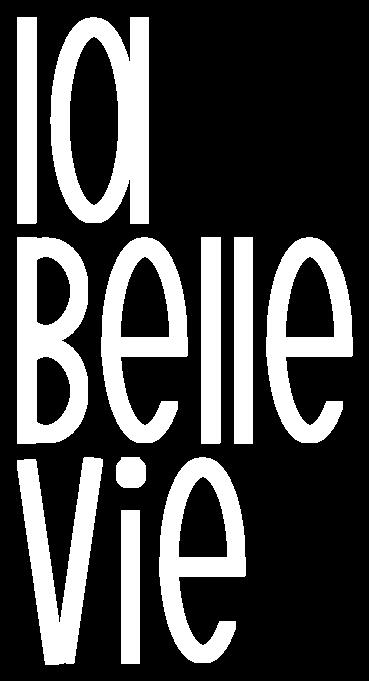
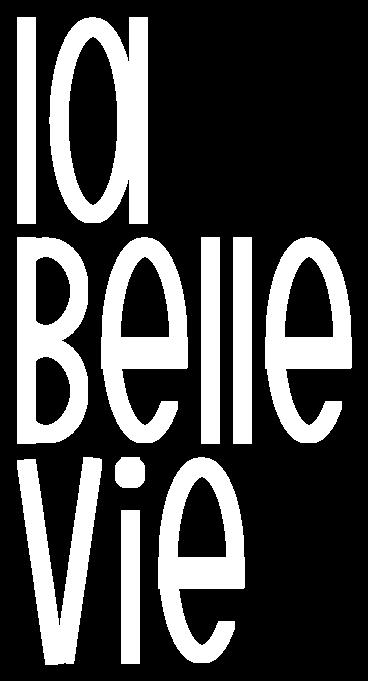
Mat: code review

diff --git a/TP1/TP1/src/tp1/LetterFactory.java b/TP1/TP1/src/tp1/LetterFactory.java
@@ -11,9 +11,9 @@ public final class LetterFactory {
     final static Double halfStripeThickness = stripeThickness / 2.0; // avant 2
 
     public static BaseShape create_e() {
-        BaseShape C = create_C();
-        Rectangle rect = new Rectangle(maxWidth, stripeThickness).translate(new Point2d(-halfMaxWidth, 0.0));
-        return C.add(rect);
+        BaseShape letterE = create_C();
+        Rectangle horizontalRect = new Rectangle(maxWidth, stripeThickness).translate(new Point2d(-halfMaxWidth, 0.0));
+        return letterE.add(horizontalRect);
     }
 
     public static BaseShape create_a() {
@@ -21,15 +21,15 @@ public final class LetterFactory {
         Ellipse smallEllipse = new Ellipse(maxWidth - stripeThickness, maxHeight- stripeThickness);
         bigEllipse.remove(smallEllipse);
 
-        Rectangle rect = new Rectangle(halfStripeThickness, maxHeight).translate(new Point2d(halfMaxWidth , -halfMaxHeight));
-        return bigEllipse.add(rect);
+        Rectangle verticalRect = new Rectangle(halfStripeThickness, maxHeight).translate(new Point2d(halfMaxWidth , -halfMaxHeight));
+        BaseShape letterA = bigEllipse.add(verticalRect);
+        return letterA;
     }
 
     public static BaseShape create_C() {
         Ellipse bigEllipse = new Ellipse(maxWidth, maxHeight);
         Ellipse smallEllipse = new Ellipse(maxWidth - stripeThickness, maxHeight- stripeThickness);
         bigEllipse.remove(smallEllipse);
-         // a revoir pour a quel point des un c et si cest trop similaire
         Rectangle rectToRemove = new Rectangle(halfMaxWidth, halfMaxHeight / 2.0);
         rectToRemove.translate(new Point2d(halfMaxWidth / 2.0D, halfStripeThickness));
         bigEllipse.remove(rectToRemove);
@@ -41,20 +41,20 @@ public final class LetterFactory {
 
     public static BaseShape create_i() {
         Rectangle rect = new Rectangle(halfStripeThickness, maxHeight).translate(new Point2d(0.0, - halfStripeThickness));
-        Circle circle = new Circle(stripeThickness);
-        circle.translate(new Point2d(halfStripeThickness / 2,0.0));
-        Rectangle rectToRemove = new Rectangle(stripeThickness,  maxHeight / 5);
+        Circle dot = new Circle(stripeThickness);
+        dot.translate(new Point2d(halfStripeThickness / 2.0,0.0));
+        Rectangle rectToRemove = new Rectangle(stripeThickness,  maxHeight / 5.0);
 
         rect.remove(rectToRemove);
-        rect.add(circle);
+        rect.add(dot);
         return rect;
     }
 
     public static BaseShape create_A() {
         BaseShape letterA = create_V();
         letterA.rotate(-Math.PI);
-        Rectangle part2 = new Rectangle(halfMaxWidth, halfStripeThickness);//translate(new Point2d(0.0, halfMaxHeight));
-        letterA.add(part2.translate(new Point2d(-12.0, halfMaxHeight + 15.0)));
+        Rectangle horizontalBar = new Rectangle(halfMaxWidth, halfStripeThickness);
+        letterA.add(horizontalBar.translate(new Point2d(-12.0, halfMaxHeight + 15.0)));
         return letterA;
     }
 
@@ -66,19 +66,19 @@ public final class LetterFactory {
     }
 
     public static BaseShape create_n() {
-        BaseShape letter_n = new BaseShape();
-        letter_n.add(new Ellipse(maxWidth, maxHeight));
-        letter_n.remove(new Ellipse(maxWidth - stripeThickness - 3, maxHeight - stripeThickness));
-        letter_n.remove(new Rectangle(maxWidth, halfMaxHeight).translate(new Point2d(-40.0, -100 + halfMaxHeight)));
-        letter_n.add(new Rectangle(halfStripeThickness, halfMaxHeight).translate(new Point2d(-54 + maxWidth, 0.0)));
-        letter_n.add(new Rectangle(halfStripeThickness, maxHeight).translate(new Point2d(-40.0, -100.0)));
-        return letter_n;
+        BaseShape letterN = new BaseShape();
+        letterN.add(new Ellipse(maxWidth, maxHeight));
+        letterN.remove(new Ellipse(maxWidth - stripeThickness - 3.0, maxHeight - stripeThickness));
+        letterN.remove(new Rectangle(maxWidth, halfMaxHeight).translate(new Point2d(-40.0, -100.0 + halfMaxHeight)));
+        letterN.add(new Rectangle(halfStripeThickness, halfMaxHeight).translate(new Point2d(-54.0 + maxWidth, 0.0)));
+        letterN.add(new Rectangle(halfStripeThickness, maxHeight).translate(new Point2d(-40.0, -100.0)));
+        return letterN;
     }
 
     public static BaseShape create_r() {
-        BaseShape letter_r = create_n();
-        letter_r.remove(new Rectangle(halfStripeThickness, halfMaxHeight + 24.0).translate(new Point2d(-54 + maxWidth, -24.0)));
-        return letter_r;
+        BaseShape letterR = create_n();
+        letterR.remove(new Rectangle(halfStripeThickness, halfMaxHeight + 24.0).translate(new Point2d(-54.0 + maxWidth, -24.0)));
+        return letterR;
     }
 
     public static BaseShape create_B() {

diff --git a/TP1/TP1/src/tp1/BaseShape.java b/TP1/TP1/src/tp1/BaseShape.java
@@ -17,14 +17,17 @@ public class BaseShape implements Cloneable {
         this.coords.add(coord);
         return this;
     }
+
     public BaseShape add(BaseShape shape) {
         this.coords.addAll(shape.getCoords());
         return this;
     }
+
     public BaseShape addAll(Collection<Point2d> coords) {
         this.coords.addAll(coords);
         return this;
     }
+
     public BaseShape remove(Point2d coord) {
         this.coords.remove(coord);
         return this;
@@ -33,6 +36,7 @@ public class BaseShape implements Cloneable {
         this.coords.removeAll(shape.getCoords());
         return this;
     }
+
     public BaseShape removeAll(Collection<Point2d> coords) {
         this.coords.removeAll(coords);
         return this;
@@ -44,13 +48,13 @@ public class BaseShape implements Cloneable {
 
     public Collection<Point2d> getCoordsDeepCopy() {
         Collection<Point2d> newColl = new ArrayList<>();
+
         for (Point2d coord : this.coords) {
             Point2d newPoint = new Point2d(coord.X(), coord.Y());
             newColl.add(newPoint);
         }
         return newColl;
     }
-
 
     public BaseShape translate(Point2d point) {
         for (Point2d coord : this.coords){
@@ -68,6 +72,7 @@ public class BaseShape implements Cloneable {
 
     public Double getMaxX() {
         if (this.coords.size() == 0) return 0.0;
+
         Point2d max = this.coords.iterator().next();
         for(Point2d coord : this.coords) {
             if (coord.X() > max.X()) max = coord;
@@ -77,6 +82,7 @@ public class BaseShape implements Cloneable {
 
     public Double getMaxY() {
         if (this.coords.size() == 0) return 0.0;
+
         Point2d max = this.coords.iterator().next();
         for(Point2d coord : this.coords) {
             if (coord.Y() >= max.Y()) max = coord;
@@ -90,6 +96,7 @@ public class BaseShape implements Cloneable {
 
     public Double getMinX() {
         if (this.coords.size() == 0) return 0.0;
+
         Point2d min = this.coords.iterator().next();
         for(Point2d coord : this.coords) {
             if (coord.X() <= min.X()) min = coord;
@@ -99,6 +106,7 @@ public class BaseShape implements Cloneable {
 
     public Double getMinY() {
         if (this.coords.size() == 0) return 0.0;
+
         Point2d min = this.coords.iterator().next();
         for(Point2d coord : this.coords) {
             if (coord.Y() <= min.Y()) min = coord;

diff --git a/TP1/TP1/src/tp1/PointOperator.java b/TP1/TP1/src/tp1/PointOperator.java
@@ -5,11 +5,9 @@ import java.util.*;
 public final class PointOperator {
 
     public static void translate(Double[] vector, Double[] translateVector) {
-
         for(int dimension = 0; dimension < vector.length; dimension++) {
             vector[dimension] += translateVector[dimension];
         }
-
     }
 
     public static void rotate(Double[] vector, Double[][] rotationMatrix) {
@@ -24,28 +22,22 @@ public final class PointOperator {
             newVector[firstDimension] = result;
         }
 
-        for(int i = 0; i < vector.length; ++i){
-            vector[i] = newVector[i];
-        }
+        System.arraycopy(newVector, 0, vector, 0, vector.length);
     }
 
     public static void divide(Double[] vector, Double divider) {
-
         for(int dimension = 0; dimension < vector.length; dimension++) {
             vector[dimension] /= divider;
         }
     }
 
     public static void multiply(Double[] vector, Double multiplier) {
-
         for(int dimension = 0; dimension < vector.length; dimension++) {
             vector[dimension] *= multiplier;
         }
-
     }
 
     public static void add(Double[] vector, Double adder) {
-
         for(int dimension = 0; dimension < vector.length; dimension++) {
             vector[dimension] += adder;
         }

diff --git a/TP1/TP1/src/tp1/Rectangle.java b/TP1/TP1/src/tp1/Rectangle.java
@@ -3,30 +3,20 @@ package tp1;
 import java.util.Collection;
 
 public class Rectangle extends BaseShape {
-    final double POINT_FREQUENCY = 0.5;
 
     public Rectangle(Double width, Double height) {
         super();
         for (double i = 0; i < width; i++) {
-            for (double j = 0; j <= height; j+=POINT_FREQUENCY) {
+            for (double j = 0; j <= height; j++) {
                 this.add(new Point2d(i, j));
             }
         }
+
         for (double i = 0; i < height; i++) {
-            for (double j = 0; j <= width; j+=POINT_FREQUENCY) {
+            for (double j = 0; j <= width; j++) {
                 this.add(new Point2d(j, i));
             }
         }
-        /*for (double i = 0; i < width; i+= width) {
-            for (double j = 0; j <= height; j+=POINT_FREQUENCY) {
-                this.add(new Point2d(i, j));
-            }
-        }
-        for (double i = 0; i < height; i+= height) {
-            for (double j = 0; j <= width; j+=POINT_FREQUENCY) {
-                this.add(new Point2d(j, i));
-            }
-        }*/
     }
 
     public Rectangle(Point2d dimensions) {

diff --git a/TP1/TP1/src/tp1/Ellipse.java b/TP1/TP1/src/tp1/Ellipse.java
@@ -5,10 +5,13 @@ import java.util.Collection;
 
 public class Ellipse extends BaseShape {
 
-    public Ellipse(Double widthRadius, Double heightRadius) {
+    double RATIO_RADIUS_DIAMETER = 2.0;
+
+    public Ellipse(Double width, Double height) {
         super();
-        widthRadius /= (2.0);
-        heightRadius /= (2.0);
+
+        Double widthRadius = width / RATIO_RADIUS_DIAMETER;
+        Double heightRadius = height / RATIO_RADIUS_DIAMETER;
 
         for(double i = -widthRadius; i < widthRadius; i++) {
             for(double j = -heightRadius; j < heightRadius; j++) {

diff --git a/TP1/TP1/src/tp1/Point2d.java b/TP1/TP1/src/tp1/Point2d.java
@@ -13,6 +13,7 @@ public class Point2d extends AbstractPoint {
     }
 
     public Double X() { return vector[X];}
+
     public Double Y() { return vector[Y];}
 
     @Override
@@ -32,7 +33,6 @@ public class Point2d extends AbstractPoint {
     }
 
     public Point2d rotate(Double angle) {
-
         double x = this.vector[this.X];
         double y = this.vector[this.Y];
 
@@ -43,7 +43,6 @@ public class Point2d extends AbstractPoint {
         this.vector[this.Y] = newY;
 
         return this;
-
     }
 
     @Override
